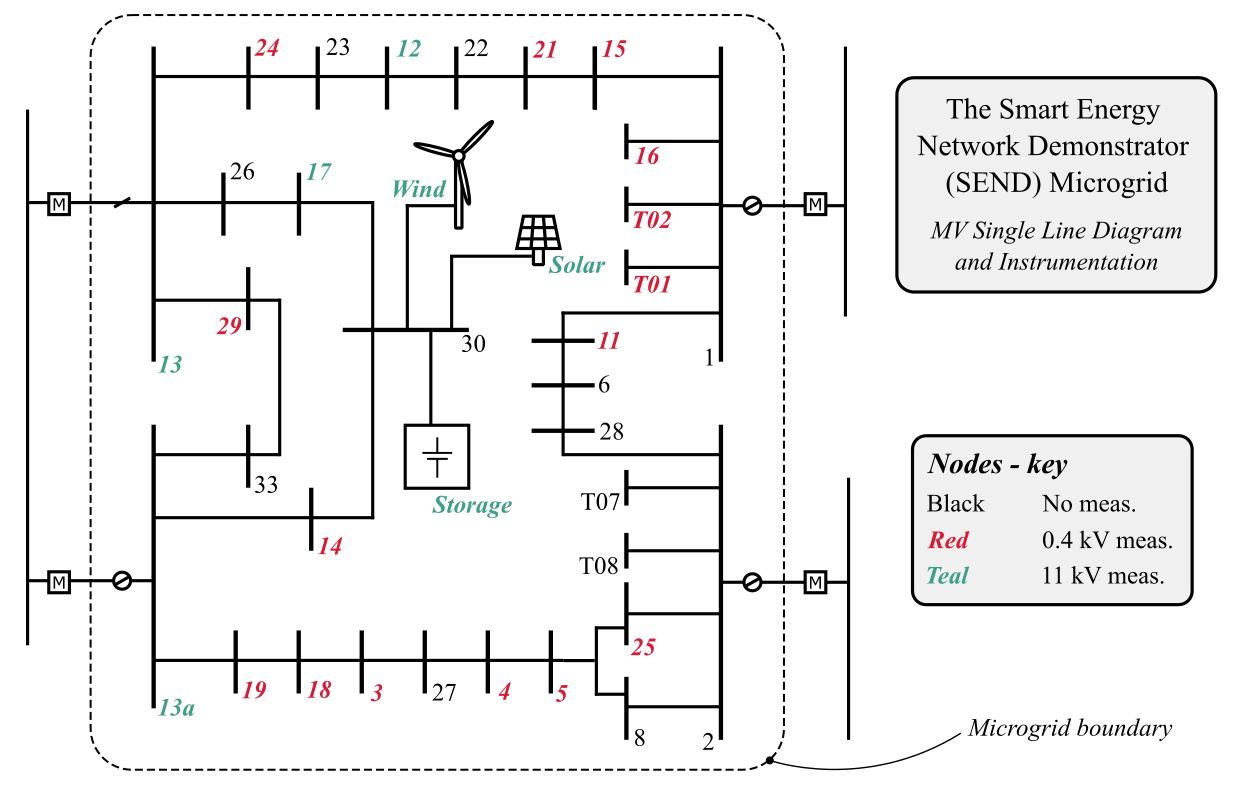
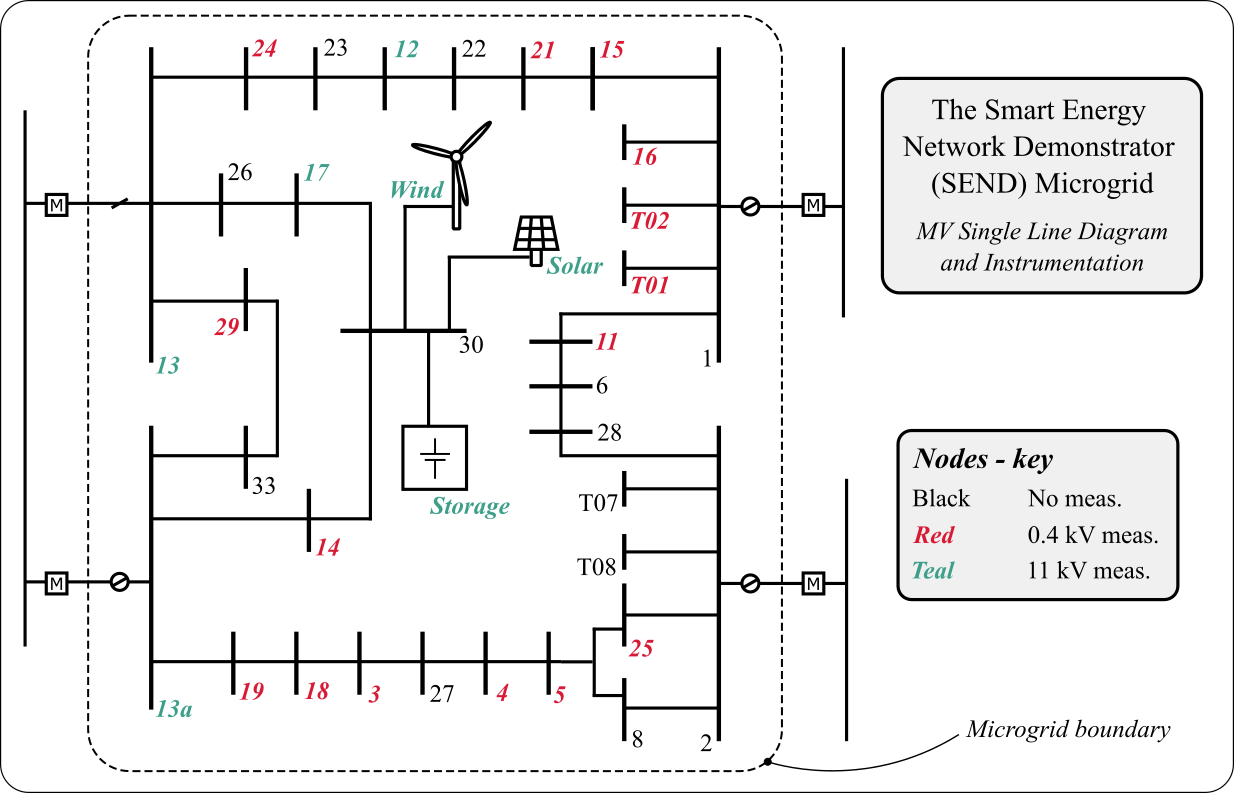
Updated figures to have a background, added dirk

diff --git a/README.md b/README.md
@@ -24,13 +24,13 @@ Buses with a `~` on are generators, green buses are loads, `V` is the voltage so
 Bus names are visible.
 Transformers are not explicitly displayed.
 
-![alt text](./fig_archive/readme/send_ntw.png "Send")
+![alt text](./fig_archive/readme/send_ntw_background.png "Send")
 
 ## Attribution
 A full paper describing this work is in preparation and is expected to be submitted Q1 2023. In the meantime please reference this package as
 
 @Misc{deakin2022smart, <br />
-author = {Deakin, Matthew and Vanin, Marta and Fan, Zhong and Dean, Ashley and Dean, Matthew and Shaw, Ian}, <br />
+author = {Deakin, Matthew and Vanin, Marta and Fan, Zhong and Dean, Ashley and Dean, Matthew and Shaw, Ian and van Hertem, Dirk}, <br />
 title = {A Smart Energy Network Digital Twin with Distribution System State Estimation}, <br />
 howpublished = {\url{https://github.com/MartaVanin/DSSE_SEND}}, <br />
 year = {2022} <br />
